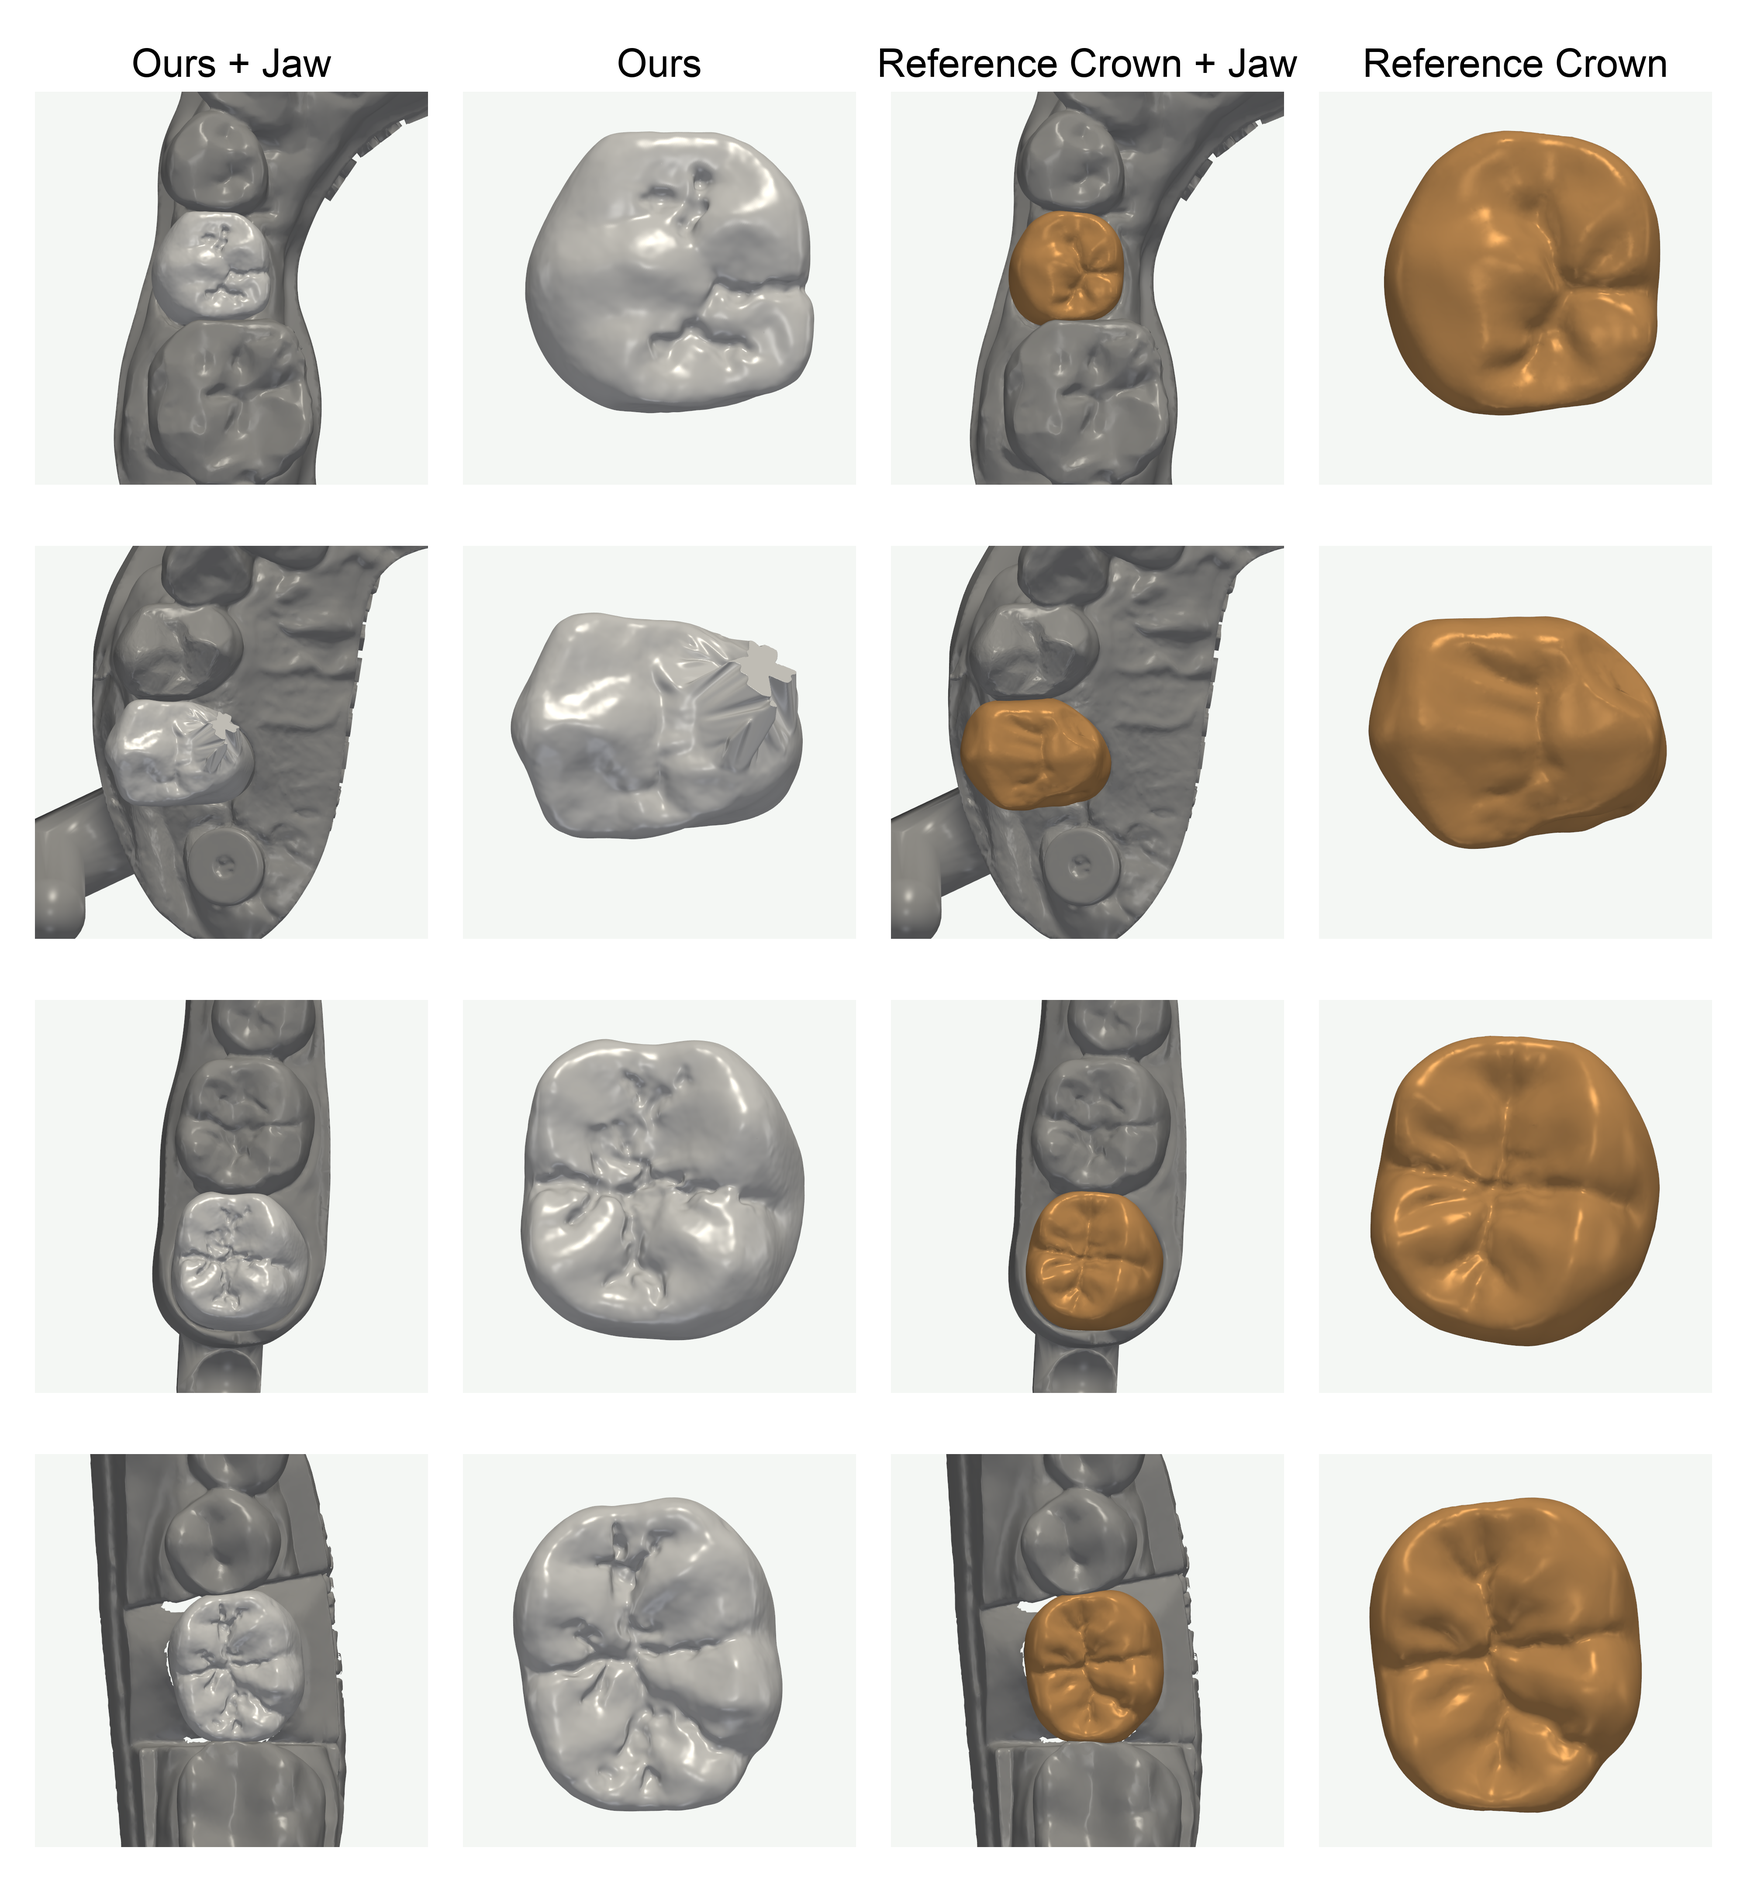
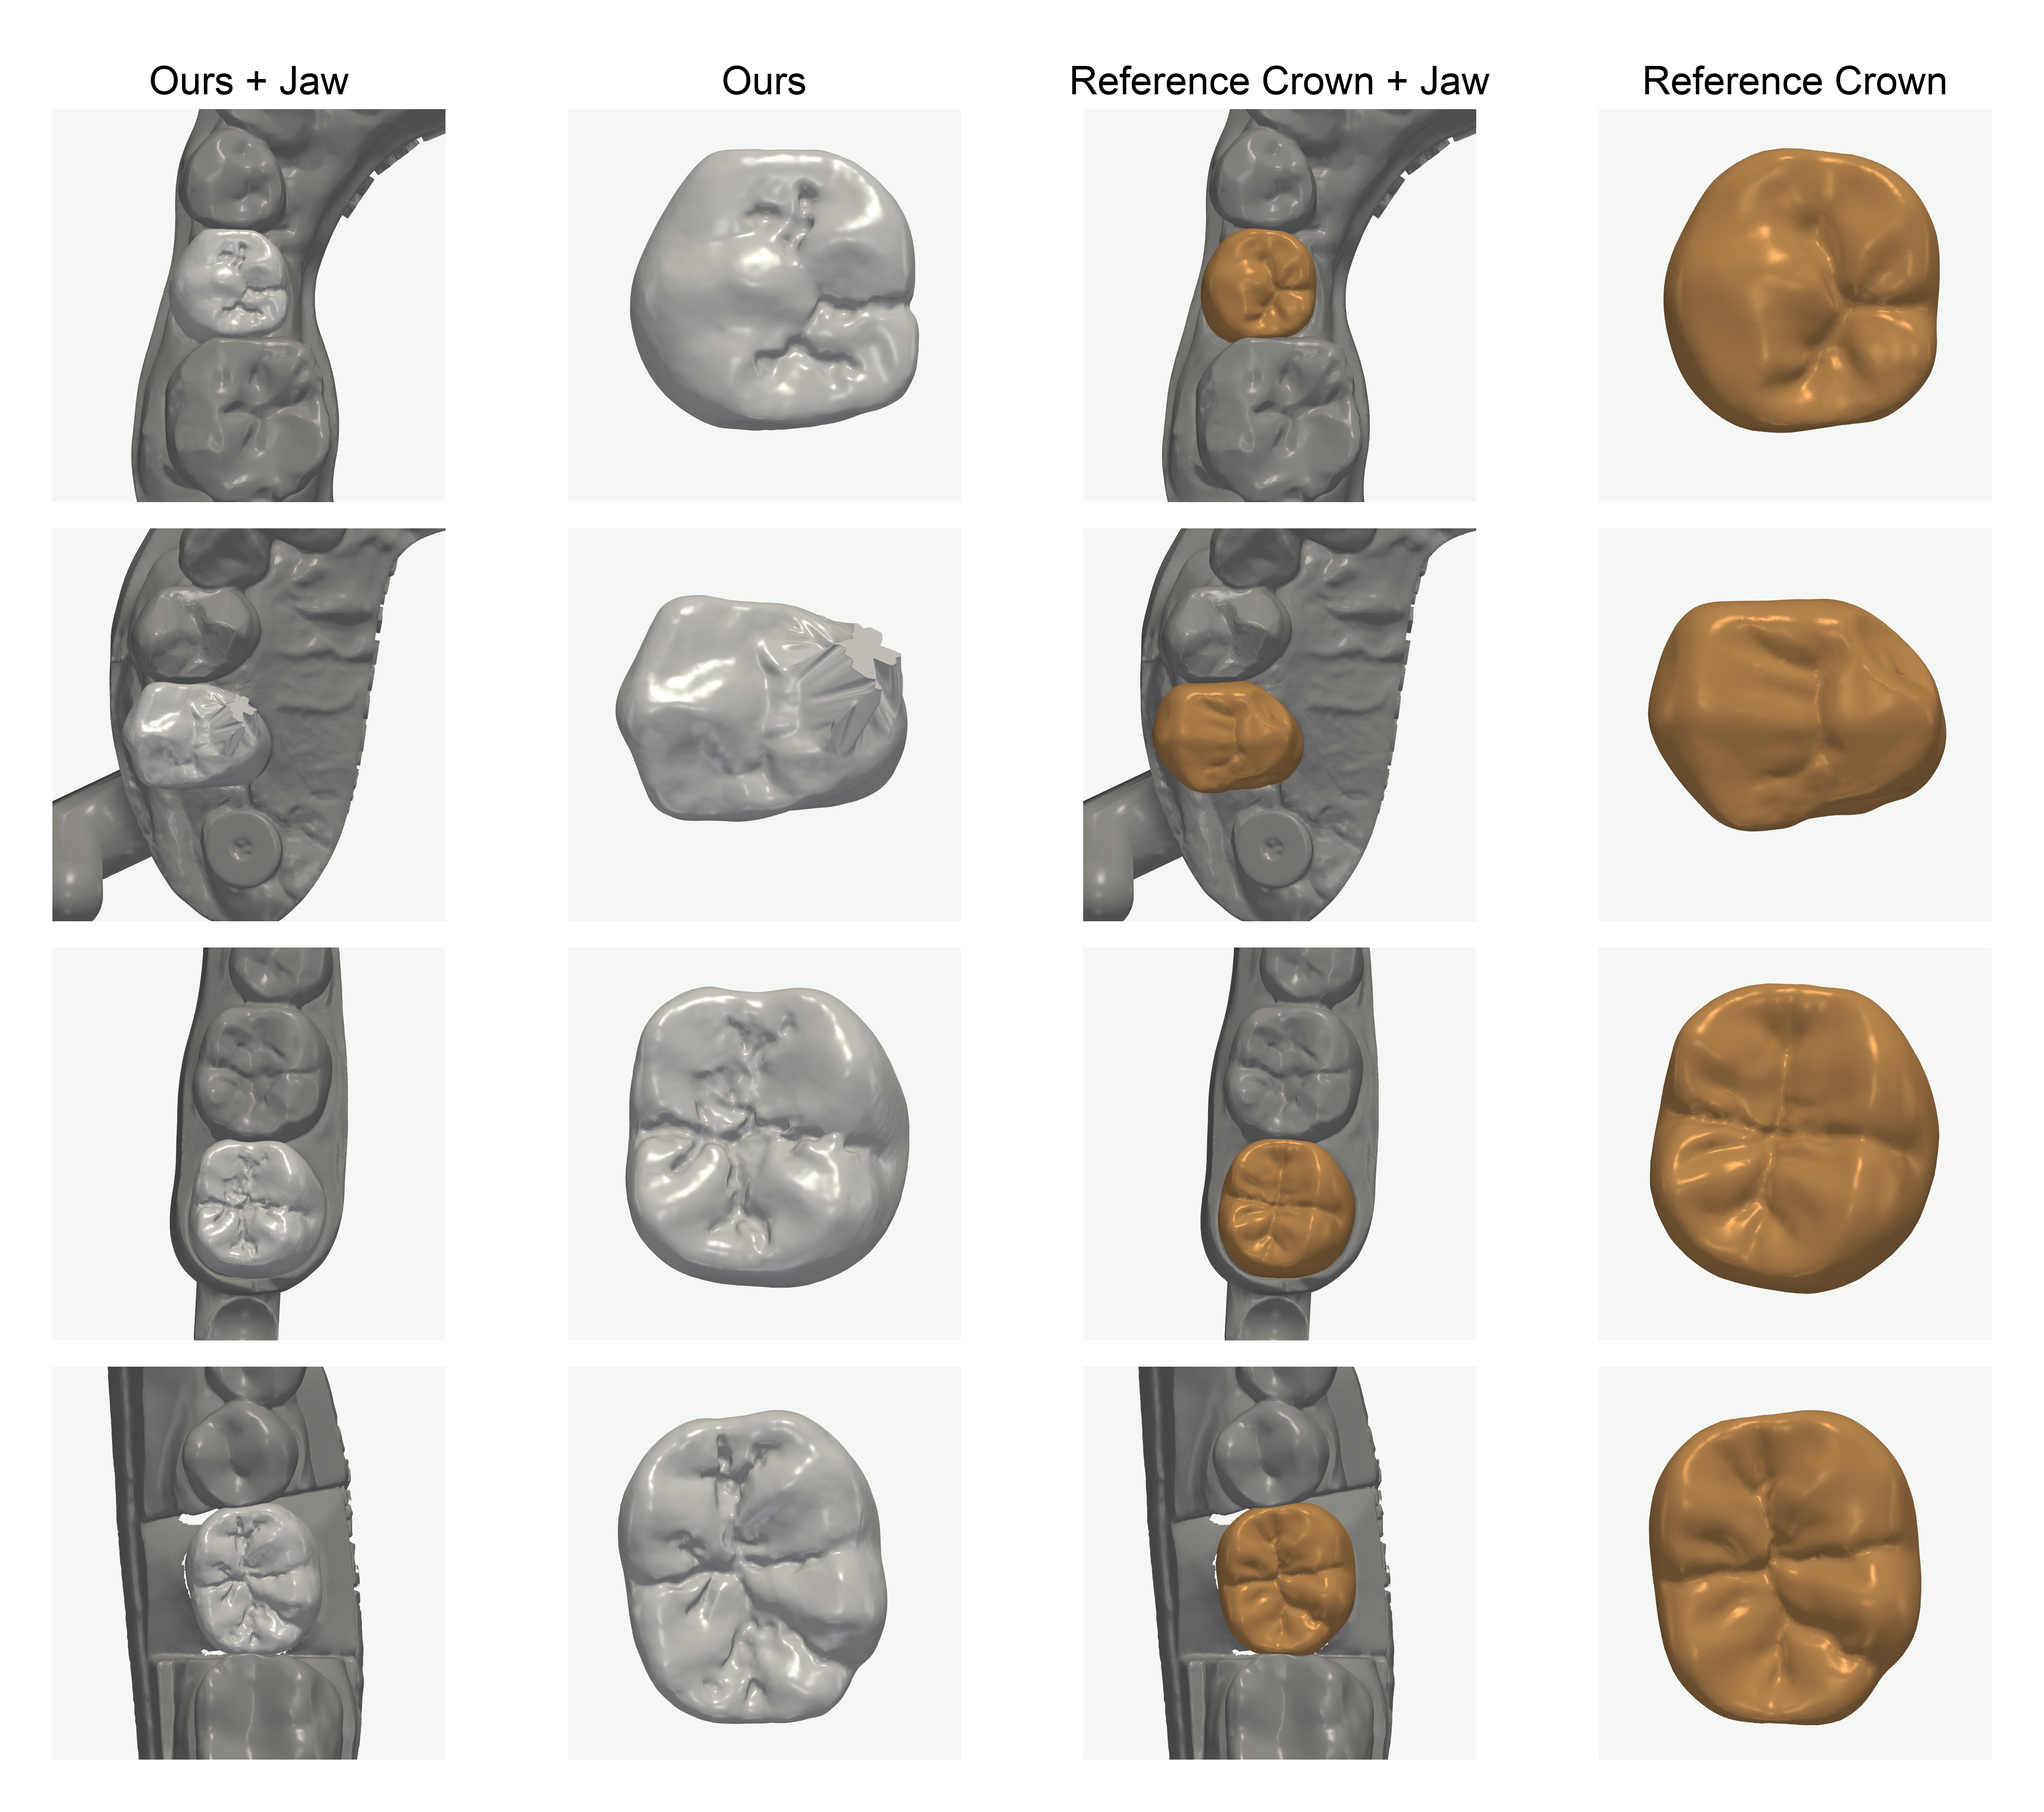
opt 14

diff --git a/figures/false_cases/step3_merge_imgs.py b/figures/false_cases/step3_merge_imgs.py
@@ -46,13 +46,16 @@ def main() -> None:
     parser.add_argument("--folders", nargs="+", help="case folder names in display order")
     parser.add_argument("-o", "--output", type=Path, default=Path("merged_heatmaps.png"),
                         help="output filename; relative paths use the script directory")
-    parser.add_argument("--gap", type=int, default=80,
-                        help="column gap and outer margin in pixels (default: 80)")
+    parser.add_argument("--gap", type=int, default=120,
+                        help="outer margin in pixels (default: %(default)s)")
+    # 图片的列间距
+    parser.add_argument("--column-gap", type=int, metavar="PX", default=280,
+                        help="horizontal gap between image columns in pixels (default: %(default)s)")
     # 保留参数兼容旧命令；当前每个文件夹占一行。
-    parser.add_argument("--line_space", "--line-space", type=int, default=80,
+    parser.add_argument("--line_space", "--line-space", type=int, default=100,
                         help="gap between the two rows in each block (default: 80)")
     # 文件夹行之间的竖直间距，单位像素。
-    parser.add_argument("--block_space", "--block-space", type=int, default=140,
+    parser.add_argument("--block_space", "--block-space", type=int, default=60,
                         help="vertical gap between case blocks (default: 80)")
      # 上方文字字体大小
     parser.add_argument("--font-size", type=int, default=90,
@@ -89,8 +92,8 @@ def main() -> None:
     vmin, vmax = (0.0, args.clim[0]) if len(args.clim) == 1 else args.clim
     if not all(math.isfinite(value) for value in (vmin, vmax)) or vmin >= vmax:
         parser.error("--clim must contain finite limits with MIN < MAX")
-    if min(args.gap, args.line_space, args.block_space, args.colorbar_gap) < 0:
-        parser.error("gap, line_space, block_space and colorbar-gap must be nonnegative")
+    if min(args.gap, args.column_gap, args.line_space, args.block_space, args.colorbar_gap) < 0:
+        parser.error("gap, column-gap, line_space, block_space and colorbar-gap must be nonnegative")
     if min(args.font_size, args.block_font_size, args.colorbar_font_size) <= 0:
         parser.error("all font sizes must be positive")
     if args.colorbar_width is not None and args.colorbar_width < 2:
@@ -152,7 +155,9 @@ def main() -> None:
     bar_length = args.colorbar_width if args.colorbar_width is not None else max(2, round(image_height * 0.7))
     if args.colorbar and bar_length > image_height:
         parser.error(f"colorbar-length must not exceed the image region height ({image_height} pixels)")
-    image_right = left_width + 4 * tile_width + 4 * args.gap
+    image_left = left_width + args.gap
+    column_stride = tile_width + args.column_gap
+    image_right = image_left + (len(COLUMN_LABELS) - 1) * column_stride + tile_width
     bar_x = image_right + args.colorbar_gap
     # Anchor the vertical colorbar to the bottom-right of the image region.
     bar_y = args.gap + header_height + image_height - bar_length
@@ -167,14 +172,14 @@ def main() -> None:
     canvas = Image.new("RGB", (canvas_width, canvas_height), args.background)
     draw = ImageDraw.Draw(canvas)
     for column, label in enumerate(COLUMN_LABELS):
-        center_x = left_width + args.gap + column * (tile_width + args.gap) + tile_width // 2
+        center_x = image_left + column * column_stride + tile_width // 2
         draw.text((center_x, args.gap + header_height // 2), label,
                   font=font, fill="black", anchor="mm")
     for block_index, block in enumerate(blocks):
         block_y = args.gap + header_height + block_index * (block_height + args.block_space)
         row = block[0]
         for column, image in enumerate(row):
-            x = left_width + args.gap + column * (tile_width + args.gap)
+            x = image_left + column * column_stride
             tile = ImageOps.contain(image, (tile_width, tile_height))
             canvas.paste(tile, (x + (tile_width - tile.width) // 2,
                                 block_y + (tile_height - tile.height) // 2))

diff --git a/figures/false_cases/step4_add_cicle.py b/figures/false_cases/step4_add_cicle.py
@@ -48,8 +48,8 @@ ELLIPSES: list[dict[str, Any]] = [
         "name": "row1-1",
         "enabled": True,
         "units": "percent", # 按图像宽高的百分比定位
-        "center": (39, 10.5), # 椭圆中心
-        "radii": (4, 3.8), # 椭圆横、纵半径 
+        "center": (39, 11.2), # 椭圆中心
+        "radii": (4, 3.5), # 椭圆横、纵半径 
         "rotation_deg": 0, # 旋转角度 
         "color": (225, 35, 35), # 
         "alpha": 1.0, # 透明度
@@ -62,7 +62,7 @@ ELLIPSES: list[dict[str, Any]] = [
         "name": "row1-2",
         "enabled": True,
         "units": "percent", # 按图像宽高的百分比定位
-        "center": (40, 19), # 椭圆中心
+        "center": (40, 19.8), # 椭圆中心
         "radii": (5, 3.2), # 椭圆横、纵半径 
         "rotation_deg": 0, # 旋转角度 
         "color": (225, 35, 35), # 
@@ -76,8 +76,8 @@ ELLIPSES: list[dict[str, Any]] = [
         "name": "row2-1",
         "enabled": True,
         "units": "percent", # 按图像宽高的百分比定位
-        "center": (42, 38.5), # 椭圆中心
-        "radii": (5, 6), # 椭圆横、纵半径 
+        "center": (42, 39.5), # 椭圆中心
+        "radii": (4.2, 5.8), # 椭圆横、纵半径 
         "rotation_deg": 0, # 旋转角度 
         "color": (225, 35, 35), # 
         "alpha": 1.0, # 透明度
@@ -91,7 +91,7 @@ ELLIPSES: list[dict[str, Any]] = [
         "enabled": True,
         "units": "percent", # 按图像宽高的百分比定位
         "center": (37, 59), # 椭圆中心
-        "radii": (4.5, 4.2), # 椭圆横、纵半径 
+        "radii": (4.6, 4.4), # 椭圆横、纵半径 
         "rotation_deg": 0, # 旋转角度 
         "color": (225, 35, 35), # 
         "alpha": 1.0, # 透明度
@@ -104,8 +104,8 @@ ELLIPSES: list[dict[str, Any]] = [
         "name": "row4-1",
         "enabled": True,
         "units": "percent", # 按图像宽高的百分比定位
-        "center": (36.5, 82.8), # 椭圆中心
-        "radii": (4.2, 3.5), # 椭圆横、纵半径 
+        "center": (36.5, 82.1), # 椭圆中心
+        "radii": (4.2, 3.9), # 椭圆横、纵半径 
         "rotation_deg": 0, # 旋转角度 
         "color": (225, 35, 35), # 
         "alpha": 1.0, # 透明度
@@ -118,8 +118,8 @@ ELLIPSES: list[dict[str, Any]] = [
         "name": "row4-2",
         "enabled": True,
         "units": "percent", # 按图像宽高的百分比定位
-        "center": (37.2, 93.2), # 椭圆中心
-        "radii": (4.7, 3.8), # 椭圆横、纵半径 
+        "center": (37.2, 92.2), # 椭圆中心
+        "radii": (4.7, 3.6), # 椭圆横、纵半径 
         "rotation_deg": 0, # 旋转角度 
         "color": (225, 35, 35), # 
         "alpha": 1.0, # 透明度
